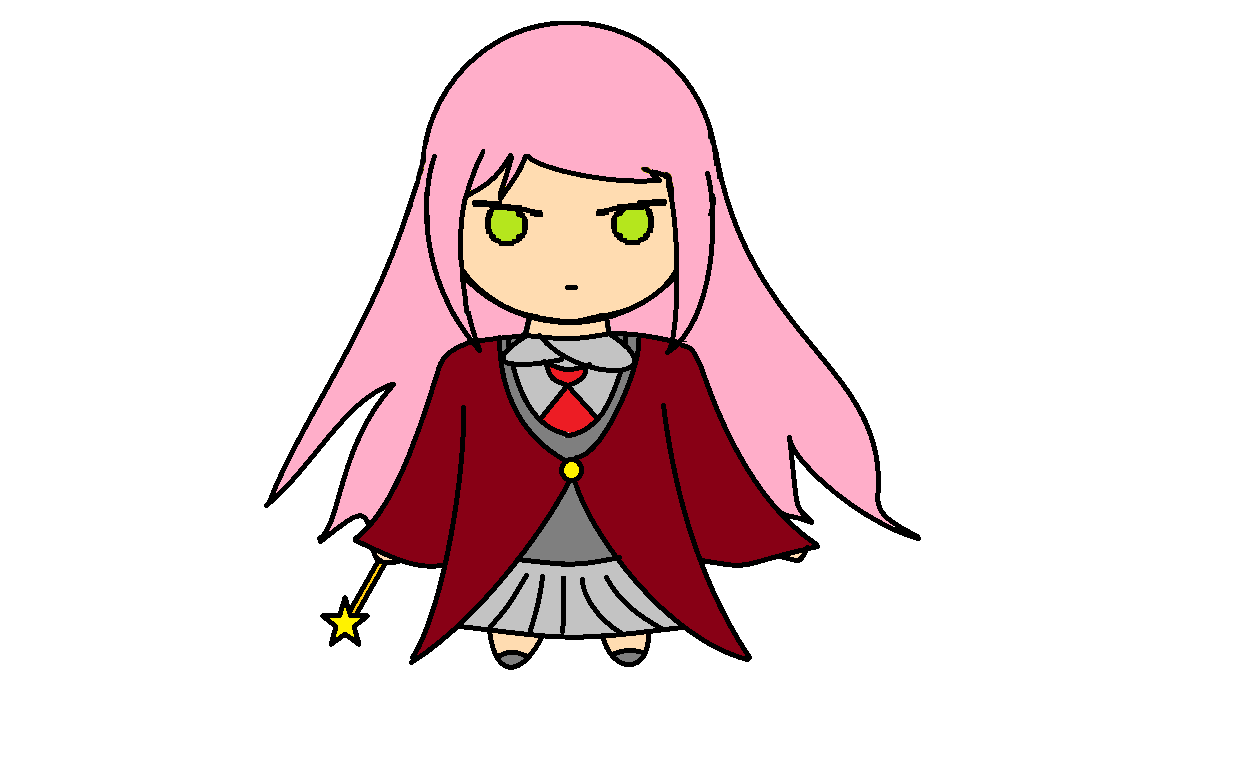
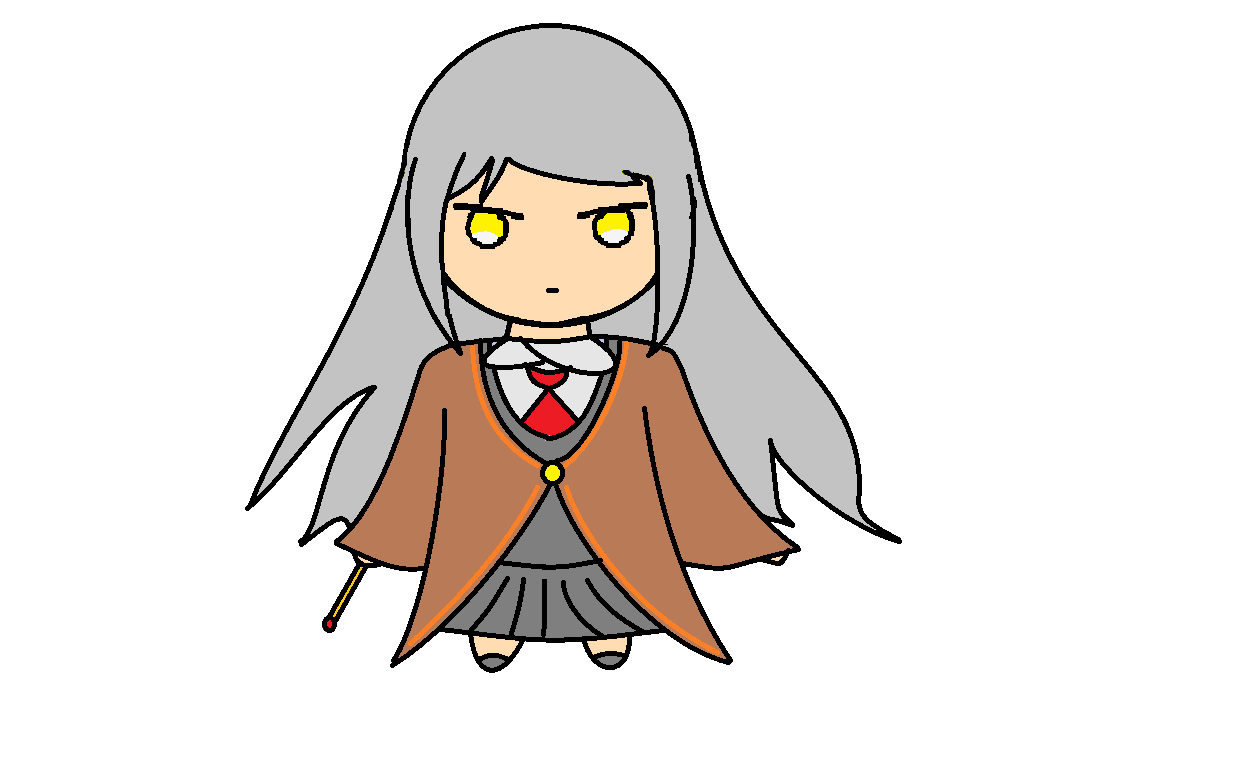
Add skin to Players

Changed region(s): [[0.1836, 0.0307, 0.7343, 0.8582]]

diff --git a/View/View.py b/View/View.py
@@ -28,15 +28,25 @@ class GraphicalView:
 
         # scale the pictures to proper size
         self.pictures = {}
-        for item in Const.ITEM_SET:
-            picture = pg.image.load(Const.PICTURES_PATH[item]).convert_alpha()
+        def crop(picture: pg.Surface, desire_width, desire_height):
+            """
+            Will scale the image to desire size without changing the ratio of the width and height.
+            The size of cropped image won't be bigger than desire size.
+            """
+            picture = picture.convert_alpha()
             bounding_rect = picture.get_bounding_rect()
             cropped_image = pg.Surface(bounding_rect.size, pg.SRCALPHA)
             cropped_image.blit(picture, (0, 0), bounding_rect)
             width, height = [cropped_image.get_width(), cropped_image.get_height()]
-            ratio = min(Const.ITEM_WIDTH/width, Const.ITEM_HEIGHT/height)
+            ratio = min(desire_width/width, desire_height/height)
             cropped_image = pg.transform.scale(cropped_image, (width*ratio, height*ratio))
-            self.pictures[item] = cropped_image
+            return cropped_image
+        for item in Const.ITEM_SET:
+            picture = pg.image.load(Const.PICTURES_PATH[item])
+            self.pictures[item] = crop(picture, Const.ITEM_WIDTH, Const.ITEM_HEIGHT)
+        for player in Const.PLAYER_IDS:
+            picture = pg.image.load(Const.PICTURES_PATH[player])
+            self.pictures[player] = crop(picture, Const.PLAYER_RADIUS*2, Const.PLAYER_RADIUS*2)
 
     def initialize(self, event):
         """
@@ -88,8 +98,9 @@ class GraphicalView:
         objects = []
         for item in model.items:
             center = list(map(int, item.position))
+            lr = [x - y for x, y in zip(center, [Const.ITEM_WIDTH/2, Const.ITEM_HEIGHT/2])]
             coord = game_map.convert_coordinate(item.position)
-            objects.append((coord[1], Const.OBJECT_TYPE.ITEM, item.type, center))
+            objects.append((coord[1], Const.OBJECT_TYPE.ITEM, item.type, lr))
         for player in model.players:
             center = list(map(int, player.position))
             coord = game_map.convert_coordinate(player.position)
@@ -104,7 +115,8 @@ class GraphicalView:
         objects.sort(key=lambda x: (x[0], x[1]))
         for i in objects:
             if i[1] == Const.OBJECT_TYPE.PLAYER:
-                pg.draw.circle(self.screen, Const.PLAYER_COLOR[i[2]], i[3], Const.PLAYER_RADIUS)
+                # pg.draw.circle(self.screen, Const.PLAYER_COLOR[i[2].value], i[3], Const.PLAYER_RADIUS)
+                self.screen.blit(self.pictures[i[2]], i[3])
             elif i[1] == Const.OBJECT_TYPE.GHOST:
                 pg.draw.circle(self.screen, Const.GHOST_COLOR[i[2]], i[3], Const.GHOST_RADIUS)
             elif i[1] == Const.OBJECT_TYPE.MAP:

diff --git a/Model/Character.py b/Model/Character.py
@@ -134,7 +134,7 @@ class Player(Character):
         self.player_id = player_id
         model = get_game_engine()
 
-        position = pg.Vector2(model.map.get_spawn_point(player_id))
+        position = pg.Vector2(model.map.get_spawn_point(player_id.value))
 
         #temporary: gets random positioin for spawn point
         position = super().get_random_position(position)
@@ -176,15 +176,15 @@ class Player(Character):
         Caught by the ghost.
         Kill player
         """
-        print(f"Player {self.player_id} is caught!")
+        print(f"{self.player_id} is caught!")
         model = get_game_engine()
         if self.effect == "sortinghat":
-            others = [x for x in range(4) if x != self.player_id]
+            others = [x for x in Const.PLAYER_IDS if x != self.player_id]
             victim = random.choice(others)
             second = ceil(model.timer / Const.FPS)
             for _ in range(5):
                 minute = second // 60
-                model.players[victim].score -= Const.PLAYER_ADD_SCORE[minute]
+                model.players[victim.value].score -= Const.PLAYER_ADD_SCORE[minute]
             self.effect = "none"
             self.invincible = model.timer + Const.SORTINGHAT_INVINCIBLE_TIME
             return
@@ -193,7 +193,7 @@ class Player(Character):
             model.register_user_event(Const.PLAYER_RESPAWN_TIME, self.respawn_handler)
 
     def respawn_handler(self):
-        print(f"Player {self.player_id} respawned!")
+        print(f"{self.player_id} respawned!")
         self.dead = False
 
     def move_direction(self, direction: str):

diff --git a/Const.py b/Const.py
@@ -9,6 +9,13 @@ PLAYER_RADIUS = 30
 PLAYER_RESPAWN_TIME = 5 * FPS
 PLAYER_ADD_SCORE = [2, 3, 5]
 PLAYER_SPEED = 100
+class PLAYER_IDS(Enum):
+    PLAYER0 = 0
+    PLAYER1 = 1
+    PLAYER2 = 2
+    PLAYER3 = 3
+    def __str__(self):
+        return f"{self.name}"
 NUM_OF_PLAYERS = 4
 DIRECTION_TO_VEC2 = {
     'up': pg.Vector2(0, -1),
@@ -86,7 +93,12 @@ PICTURES_PATH = {
     ITEM_SET.GOLDEN_SNITCH: "Pictures/Items/GoldenSnitch.png",
     ITEM_SET.PATRONUS: "Pictures/Items/Patronus.png",
     ITEM_SET.PETRIFICATION: "Pictures/Items/Petrification.png",
-    ITEM_SET.SORTINGHAT: "Pictures/Items/SortingHat.png"
+    ITEM_SET.SORTINGHAT: "Pictures/Items/SortingHat.png",
+    PLAYER_IDS.PLAYER0: "Pictures/Characters/Players/Player0.png",
+    PLAYER_IDS.PLAYER1: "Pictures/Characters/Players/Player1.png",
+    PLAYER_IDS.PLAYER2: "Pictures/Characters/Players/Player2.png",
+    PLAYER_IDS.PLAYER3: "Pictures/Characters/Players/Player3.png",
+    OBJECT_TYPE.GHOST: "Pictures/Characters/Ghosts"
 }
 
 # controller

diff --git a/Model/Model.py b/Model/Model.py
@@ -40,7 +40,10 @@ class GameEngine:
         """
         self.clock = pg.time.Clock()
         self._state = Const.STATE_MENU
-        self.players = [Player(0), Player(1), Player(2), Player(3)]
+        self.players = []
+        for i in Const.PLAYER_IDS:
+            self.players.append(Player(i))
+        # self.players = [Player(0), Player(1), Player(2), Player(3)]
         self.ghosts = [Ghost(0, Const.GHOST_INIT_TP_CD)]
         self.patronuses = []
         self.items = []
